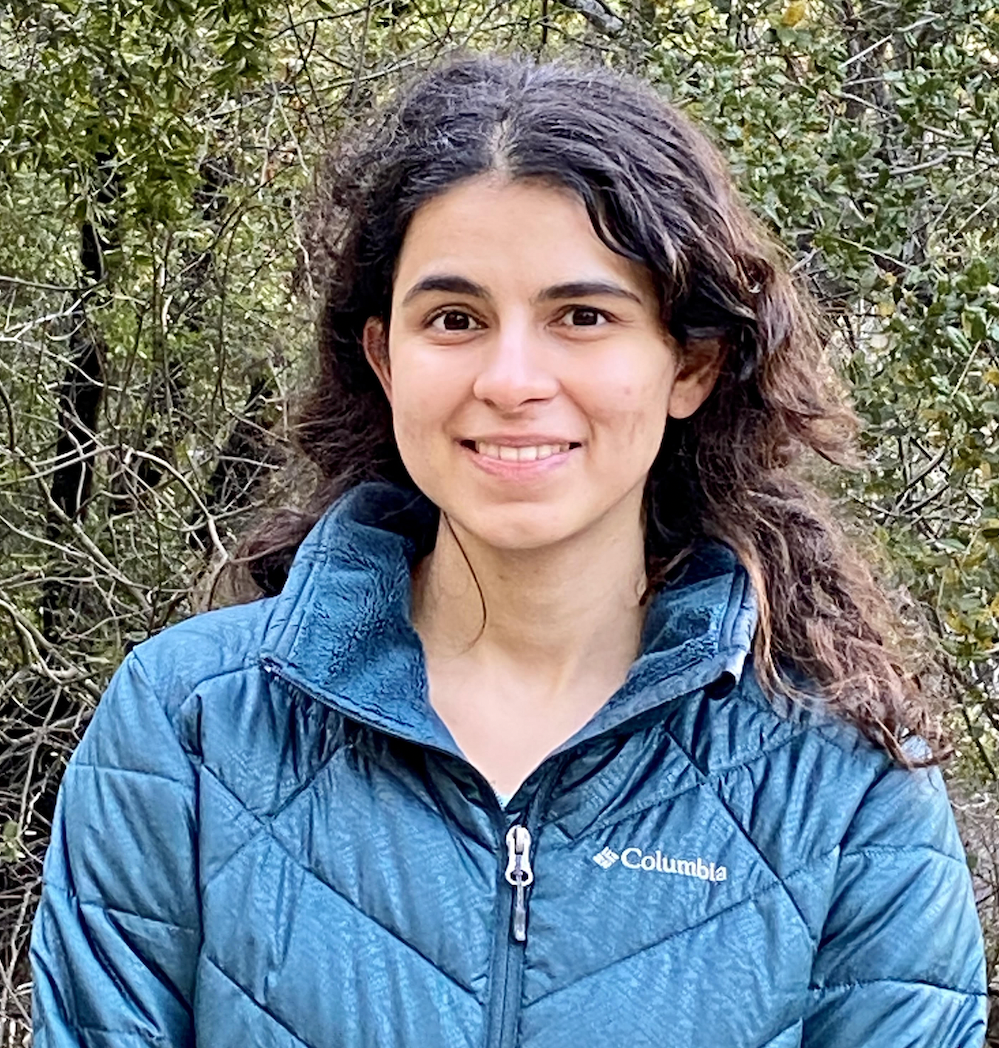
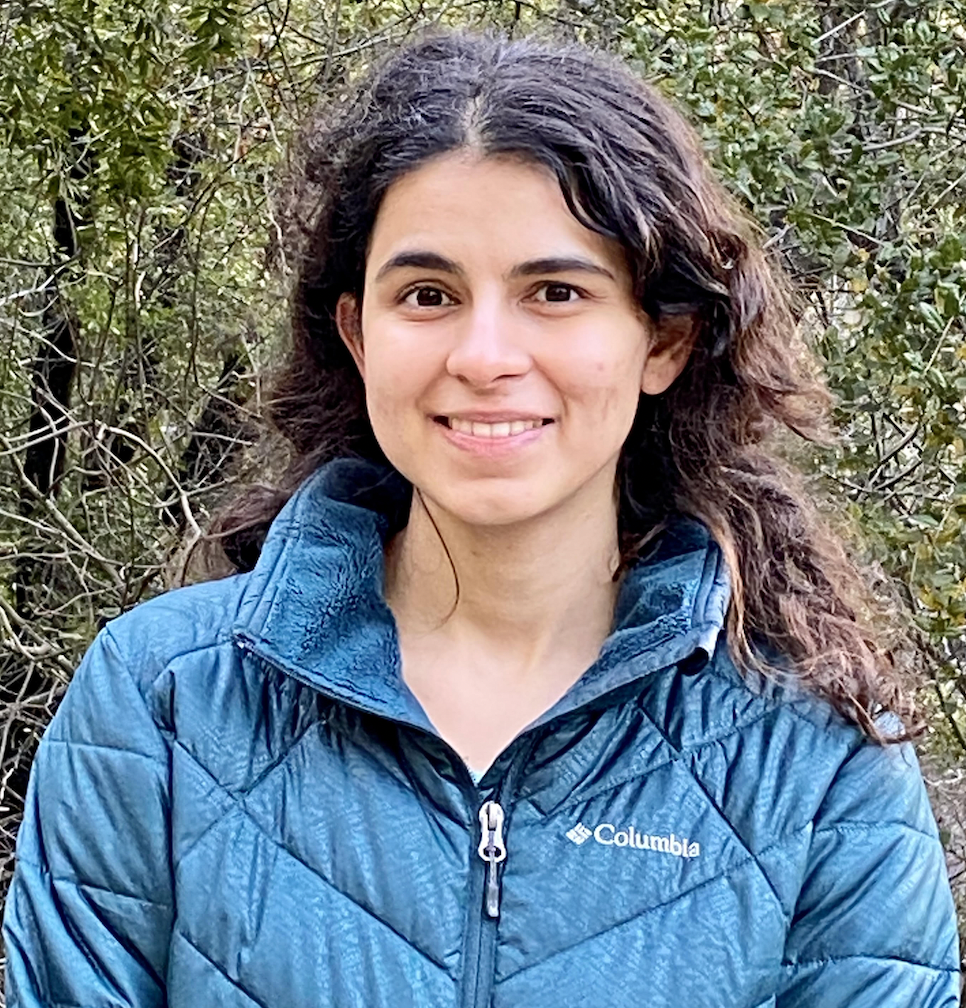
minor update to picture

diff --git a/_pages/about.md b/_pages/about.md
@@ -6,7 +6,7 @@ permalink: /
 profile:
   align: right
   image: prof_pic.jpg
-  image_cicular: false # crops the image to make it circular
+  image_cicular: true # crops the image to make it circular
 
 news: false  # includes a list of news items
 selected_papers: false # includes a list of papers marked as "selected={true}"
